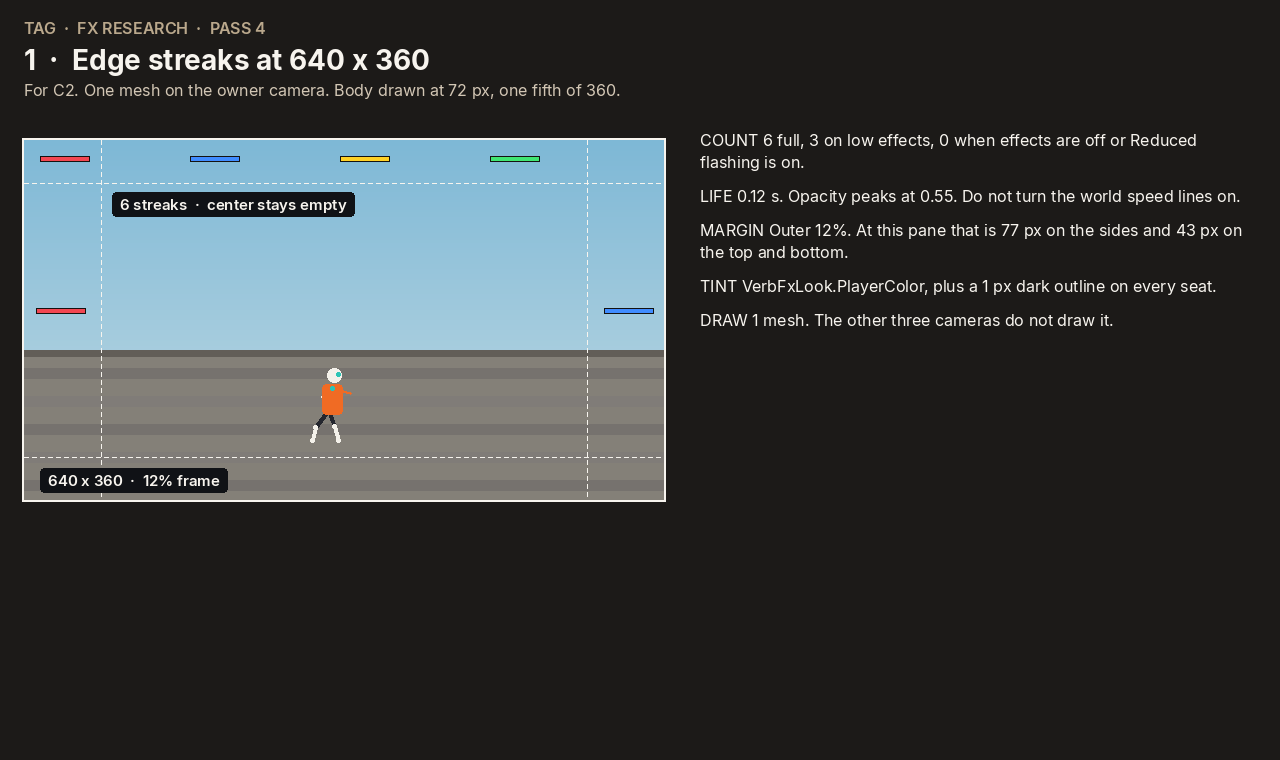
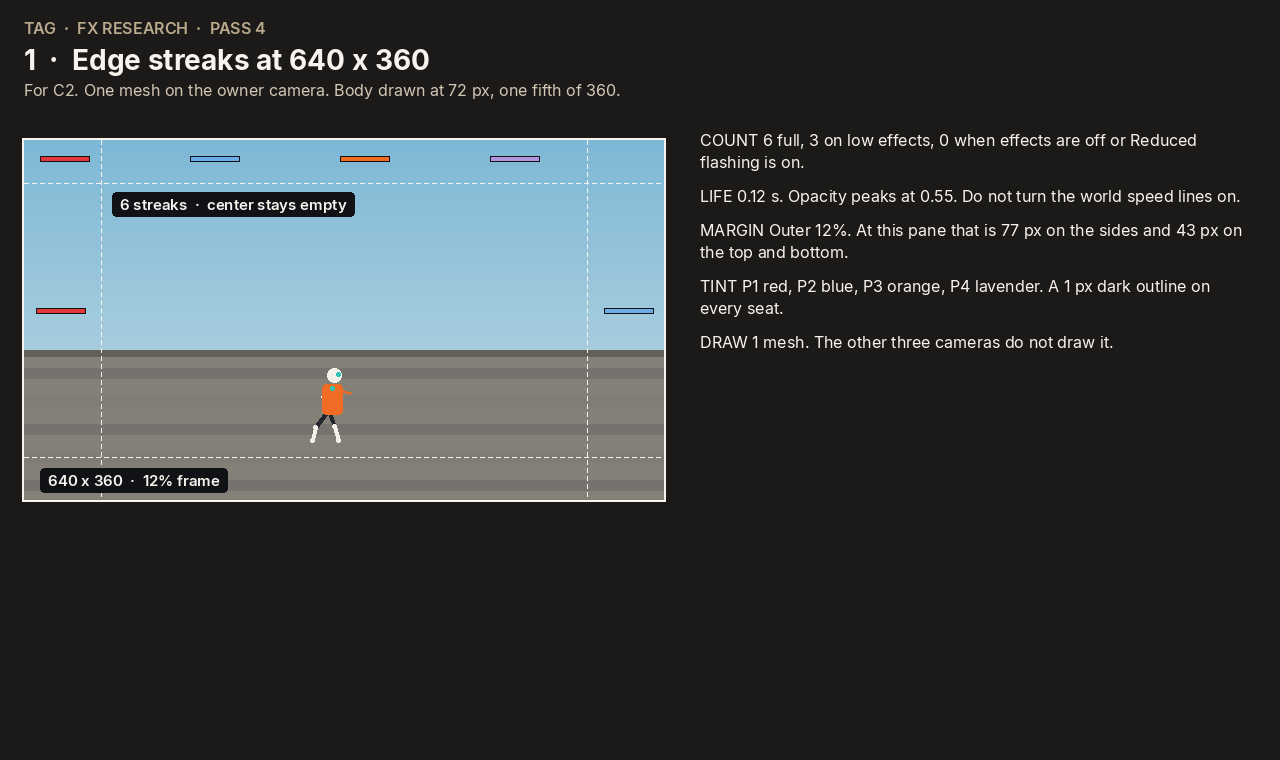
Correct pass-4 seat tints to red, blue, orange, and lavender.
P3 and P4 are the body colors, not the yellow and green stored on VerbFxLook.PlayerColor.

diff --git a/Docs/FX/research-pass4/make_stills.py b/Docs/FX/research-pass4/make_stills.py
@@ -13,11 +13,12 @@ from PIL import Image, ImageDraw
 sys.path.insert(0, os.path.join(os.path.dirname(__file__), "..", "research-pass1"))
 import make_stills as p1
 
+# DummyPrimitiveFactory foam. P1 red, P2 blue, P3 orange, P4 lavender.
 SEATS = (
-    (242, 71, 82),
-    (64, 140, 255),
-    (255, 209, 38),
-    (64, 230, 115),
+    (224, 56, 61),
+    (107, 173, 235),
+    (240, 107, 36),
+    (179, 148, 224),
 )
 INK = (20, 18, 16)
 CHIP = (16, 18, 22)
@@ -225,7 +226,7 @@ def main():
             "COUNT  6 full, 3 on low effects, 0 when effects are off or Reduced flashing is on.",
             "LIFE  0.12 s. Opacity peaks at 0.55. Do not turn the world speed lines on.",
             "MARGIN  Outer 12%. At this pane that is 77 px on the sides and 43 px on the top and bottom.",
-            "TINT  VerbFxLook.PlayerColor, plus a 1 px dark outline on every seat.",
+            "TINT  P1 red, P2 blue, P3 orange, P4 lavender. A 1 px dark outline on every seat.",
             "DRAW  1 mesh. The other three cameras do not draw it.",
         ],
     )

diff --git a/Docs/FX/RESEARCH.md b/Docs/FX/RESEARCH.md
@@ -501,7 +501,8 @@ Pass 1 asked for six to eight streaks in the outer 12%, seat tint, from sprint, 
 
 - `Pass5Look.SpeedLines` returns 0 below sprint (13.8). At sprint and full density it returns 4. It adds lines as speed rises and stops at 8. At `FxAmount.LowDensity` (0.5) it halves that count and will not go below 2.
 - Those lines are not these streaks. `FxKitSim` draws 14 air `LineRenderer`s, life 0.15 s, peak alpha 0.35, and only when `GameSettings.SpeedLines` is on. That bool defaults off. The comment says the default is so four panes stay readable. Reduced flashing also hides them.
-- `VerbFxLook.PlayerColor` is the tint the kit already stores (`FxKitSim`, `Pass5Host`). Seat 0 is `(0.95, 0.28, 0.32)`. Seat 1 is `(0.25, 0.55, 1)`. Seat 2 is `(1, 0.82, 0.15)`. Seat 3 is `(0.25, 0.90, 0.45)`.
+- The four seat bodies are P1 red, P2 blue, P3 orange, and P4 lavender. Foam RGB in `DummyPrimitiveFactory`, verified from that file: red `(0.88, 0.22, 0.24)`, blue `(0.42, 0.68, 0.92)`, orange `(0.94, 0.42, 0.14)`, lavender `(0.70, 0.58, 0.88)`.
+- `VerbFxLook.PlayerColor` is what `FxKitSim` and `Pass5Host` store today. Seat 0 is a red `(0.95, 0.28, 0.32)` and seat 1 is a blue `(0.25, 0.55, 1)`. Seat 2 is `(1, 0.82, 0.15)` and seat 3 is `(0.25, 0.90, 0.45)`. Those two are not orange and lavender. Do not copy them onto P3 and P4.
 - `AccessibilityPalette.Player` is a different table, five palettes of four colors. Nothing under `Assets/Scripts/FX` reads it. Do not retint the streaks from that table in this build.
 
 **What to build.**
@@ -515,12 +516,13 @@ Pass 1 asked for six to eight streaks in the outer 12%, seat tint, from sprint, 
 | Margin | Outer 12% of the pane. At 640×360 that is 77 px on the left and right and 43 px on the top and bottom. Nothing inside that frame. |
 | Size at 640×360 | Each streak is 48 px long (0.075 of the width) and 4 px thick (4/360 of the height), with a 1 px dark outline. The colored core is what is left inside the outline. |
 | If the pane is 960×540 | Keep the fractions. The check pixels become 72 px long, 6 px thick, and a 2 px outline. The 12% margin stays 12%. |
-| Outline | RGB `(0.08, 0.07, 0.06)`, alpha 0.90, on every seat. Seat 1 blue and seat 2 yellow sit on sky. The outline is why they survive. Seat 0 red does not get to skip it. |
+| Tint | The seat body. P1 red, P2 blue, P3 orange, P4 lavender, using the foam RGB above. One seat, one color. |
+| Outline | RGB `(0.08, 0.07, 0.06)`, alpha 0.90, on every seat. P2 blue and P4 lavender sit on sky. P3 orange sits on brick. The outline is why they survive. P1 red does not get to skip it. |
 | Draw | 6 quads, one mesh, child of that seat’s camera. 1 draw. The other three cameras do not draw it. Four sprinters are 4 draws, one on each owner camera. 0 particles. Not 6 `LineRenderer`s. The kit already spends 14 of those on air streaks. |
 
 **Reference.** Same as pass 1. Spider-Man’s published camera notes are about field of view, which stays 0. Titanfall 2’s texture deck, verified in pass 1, refuses an extra full-screen pass. This mesh is the small version of that refusal. No new page was opened for the pixel table. The 48 px, the 4 px, the 0.55, and the 0.12 s are the build numbers for this pass. They are not a captured frame.
 
-**Readability risk.** High if the streaks are parented in the world: four panes would each draw every runner. High if the count follows `SpeedLines` and someone enables that toggle to “make the streaks appear.” High if seat 2 is a bare yellow stroke on the sky with no outline. Low if they stay in the 12% and the center of the pane stays empty.
+**Readability risk.** High if the streaks are parented in the world: four panes would each draw every runner. High if the count follows `SpeedLines` and someone enables that toggle to “make the streaks appear.” High if P2 blue or P4 lavender is a bare stroke on the sky with no outline. Low if they stay in the 12% and the center of the pane stays empty.
 
 ### 2. Contact ink card against the comic word
 
